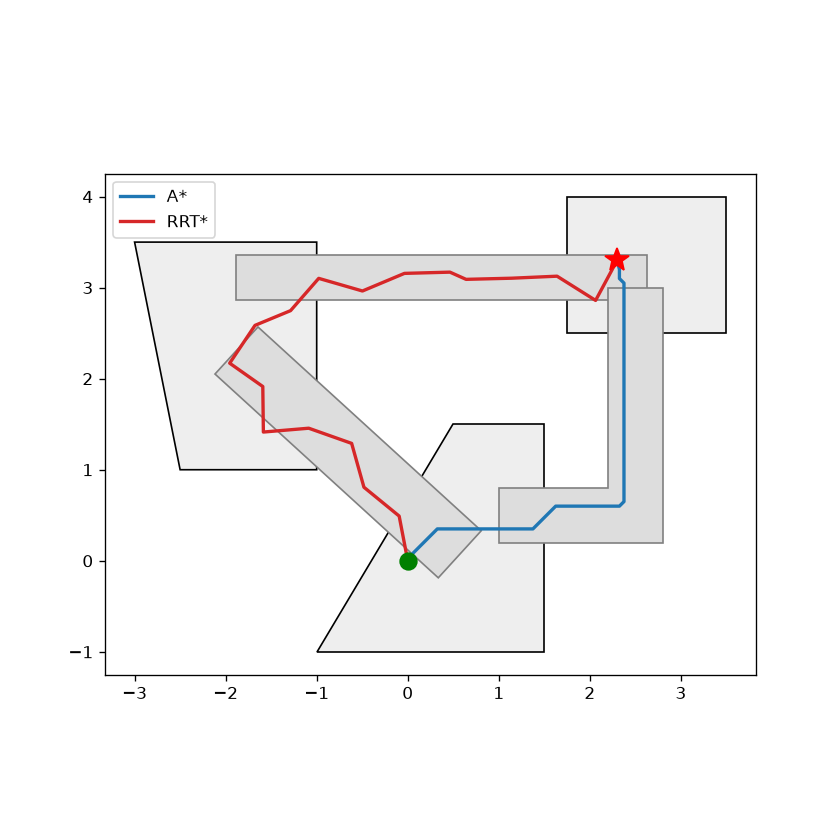
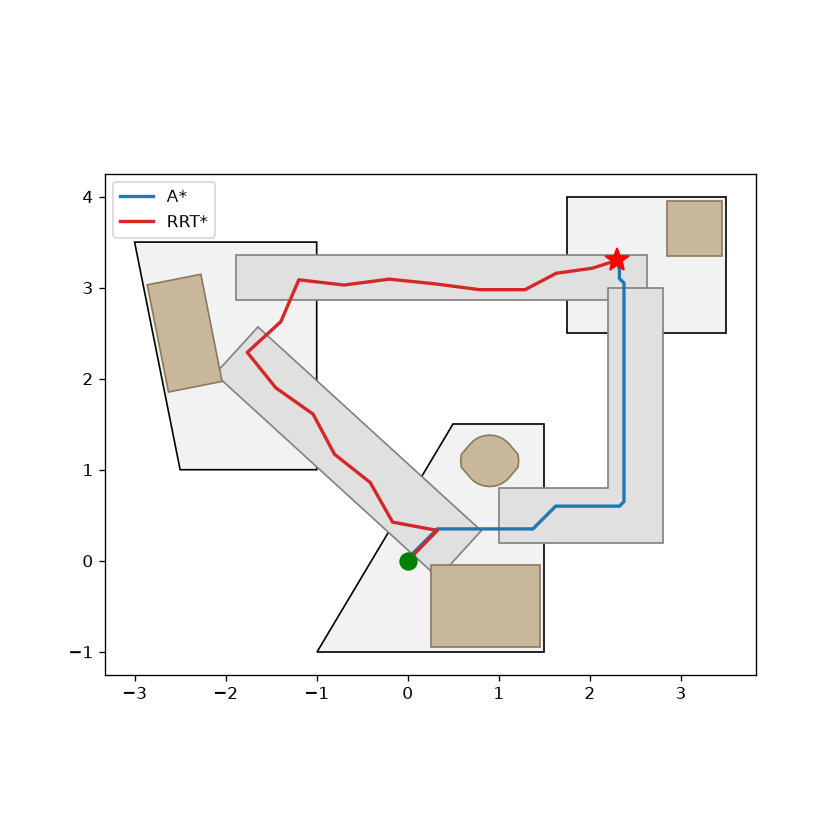
move world and planner setup into navbench/world.py, seed rrt*

diff --git a/animate.py b/animate.py
@@ -1,5 +1,6 @@
 """Two robots, same start and goal: A* vs RRT*. Exports demos/race.gif."""
 
+import argparse
 from pathlib import Path
 
 import matplotlib
@@ -9,43 +10,24 @@ import matplotlib.pyplot as plt
 import numpy as np
 from matplotlib.animation import FuncAnimation, PillowWriter
 
-from pyrobosim.core import WorldYamlLoader
-from pyrobosim.navigation import AStarPlanner, RRTPlanner
-from pyrobosim.utils.general import get_data_folder
-from pyrobosim.utils.pose import Pose
+from navbench.world import GOAL, START, draw_world, load_world, make_planners, plan
 
-START = Pose(x=0.0, y=0.0)
-GOAL = Pose(x=2.3, y=3.3)
 SPEED = 1.0  # m/s, same for both robots
 FPS = 20
 HOLD_S = 1.5  # seconds to keep the final frame
+COLORS = {"A*": "tab:blue", "RRT*": "tab:red"}
 
-world = WorldYamlLoader().from_file(get_data_folder() / "test_world.yaml")
+parser = argparse.ArgumentParser()
+parser.add_argument("--seed", type=int, default=0)
+args = parser.parse_args()
+
+world = load_world()
 robot = world.robots[0]
-
-planners = {
-    "A*": (AStarPlanner(grid_resolution=0.05, grid_inflation_radius=0.15), "tab:blue"),
-    "RRT*": (
-        RRTPlanner(
-            bidirectional=True,
-            rrt_star=True,
-            max_connection_dist=0.5,
-            rewire_radius=1.5,
-            collision_check_step_dist=0.025,
-        ),
-        "tab:red",
-    ),
-}
 
 
 class Run:
     def __init__(self, name, planner, color):
-        import time
-
-        robot.set_path_planner(planner)
-        t0 = time.perf_counter()
-        path = robot.plan_path(START, GOAL)
-        self.plan_time = time.perf_counter() - t0
+        path, self.plan_time = plan(robot, planner, args.seed)
         assert path is not None and path.poses, f"{name}: no path"
         self.name, self.color = name, color
         self.xy = np.array([[p.x, p.y] for p in path.poses])
@@ -67,21 +49,12 @@ class Run:
         return pts[:, 0], pts[:, 1]
 
 
-runs = [Run(n, p, c) for n, (p, c) in planners.items()]
+runs = [Run(n, p, COLORS[n]) for n, p in make_planners().items()]
 for r in runs:
     print(f"{r.name}: length={r.length:.2f} m, plan={r.plan_time:.3f} s, travel={r.travel_time:.1f} s")
 
 fig, ax = plt.subplots(figsize=(6, 6.4))
-for room in world.rooms:
-    x, y = room.polygon.exterior.xy
-    ax.fill(x, y, color="#f2f2f2", ec="black", zorder=1)
-for hall in world.hallways:
-    for g in getattr(hall.polygon, "geoms", [hall.polygon]):
-        x, y = g.exterior.xy
-        ax.fill(x, y, color="#e0e0e0", ec="gray", zorder=1)
-for loc in world.locations:
-    x, y = loc.polygon.exterior.xy
-    ax.fill(x, y, color="#c8b79a", ec="#8a7a5c", zorder=2)
+draw_world(ax, world)
 
 ax.plot(START.x, START.y, "go", ms=10, zorder=3)
 ax.plot(GOAL.x, GOAL.y, "k*", ms=16, zorder=3)

diff --git a/demo.py b/demo.py
@@ -1,6 +1,6 @@
 """Smoke test: load a world, plan with A* and RRT*, save a picture."""
 
-import time
+import argparse
 from pathlib import Path
 
 import matplotlib
@@ -8,54 +8,25 @@ import matplotlib
 matplotlib.use("Agg")
 import matplotlib.pyplot as plt
 
-from pyrobosim.core import WorldYamlLoader
-from pyrobosim.navigation import AStarPlanner, RRTPlanner
-from pyrobosim.utils.general import get_data_folder
-from pyrobosim.utils.pose import Pose
+from navbench.world import GOAL, START, draw_world, load_world, make_planners, plan
 
-START = Pose(x=0.0, y=0.0)
-GOAL = Pose(x=2.3, y=3.3)
+parser = argparse.ArgumentParser()
+parser.add_argument("--seed", type=int, default=0)
+args = parser.parse_args()
 
-world = WorldYamlLoader().from_file(get_data_folder() / "test_world.yaml")
+world = load_world()
 robot = world.robots[0]
 
-planners = {
-    "A*": AStarPlanner(grid_resolution=0.05, grid_inflation_radius=0.15),
-    "RRT*": RRTPlanner(
-        bidirectional=True,
-        rrt_star=True,
-        max_connection_dist=0.5,
-        rewire_radius=1.5,
-        collision_check_step_dist=0.025,
-    ),
-}
-
 fig, ax = plt.subplots(figsize=(7, 7))
-for room in world.rooms:
-    x, y = room.polygon.exterior.xy
-    ax.fill(x, y, color="#eeeeee", ec="black")
-for hall in world.hallways:
-    geoms = getattr(hall.polygon, "geoms", [hall.polygon])
-    for g in geoms:
-        x, y = g.exterior.xy
-        ax.fill(x, y, color="#dddddd", ec="gray")
+draw_world(ax, world)
 
-for (name, planner), color in zip(planners.items(), ["tab:blue", "tab:red"]):
-    robot.set_path_planner(planner)
-    t0 = time.perf_counter()
-    path = robot.plan_path(START, GOAL)
-    dt = time.perf_counter() - t0
+for (name, planner), color in zip(make_planners().items(), ["tab:blue", "tab:red"]):
+    path, dt = plan(robot, planner, args.seed)
     if path is None or not path.poses:
         print(f"{name}: no path")
         continue
     print(f"{name}: length={path.length:.2f} m, time={dt:.3f} s")
-    ax.plot(
-        [p.x for p in path.poses],
-        [p.y for p in path.poses],
-        color=color,
-        lw=2,
-        label=name,
-    )
+    ax.plot([p.x for p in path.poses], [p.y for p in path.poses], color=color, lw=2, label=name)
 
 ax.plot(START.x, START.y, "go", ms=10)
 ax.plot(GOAL.x, GOAL.y, "r*", ms=15)

diff --git a/navbench/world.py b/navbench/world.py
@@ -1,0 +1,53 @@
+import time
+
+import numpy as np
+from pyrobosim.core import WorldYamlLoader
+from pyrobosim.navigation import AStarPlanner, RRTPlanner
+from pyrobosim.utils.general import get_data_folder
+from pyrobosim.utils.pose import Pose
+
+START = Pose(x=0.0, y=0.0)
+GOAL = Pose(x=2.3, y=3.3)
+
+
+def load_world():
+    """Load the PyRoboSim test world (3 rooms, 3 hallways, one robot)."""
+    return WorldYamlLoader().from_file(get_data_folder() / "test_world.yaml")
+
+
+def make_planners():
+    """Return the A* and RRT* planners we compare, keyed by name."""
+    return {
+        "A*": AStarPlanner(grid_resolution=0.05, grid_inflation_radius=0.15),
+        "RRT*": RRTPlanner(
+            bidirectional=True,
+            rrt_star=True,
+            max_connection_dist=0.5,
+            rewire_radius=1.5,
+            collision_check_step_dist=0.025,
+        ),
+    }
+
+
+def plan(robot, planner, seed=0, start=START, goal=GOAL):
+    """Plan a path with the given planner. Returns (path, seconds)."""
+    # RRT samples with the global numpy generator (World.sample_free_robot_pose_uniform)
+    np.random.seed(seed)
+    robot.set_path_planner(planner)
+    t0 = time.perf_counter()
+    path = robot.plan_path(start, goal)
+    return path, time.perf_counter() - t0
+
+
+def draw_world(ax, world):
+    """Draw rooms, hallways and furniture on a matplotlib axis."""
+    for room in world.rooms:
+        x, y = room.polygon.exterior.xy
+        ax.fill(x, y, color="#f2f2f2", ec="black", zorder=1)
+    for hall in world.hallways:
+        for g in getattr(hall.polygon, "geoms", [hall.polygon]):
+            x, y = g.exterior.xy
+            ax.fill(x, y, color="#e0e0e0", ec="gray", zorder=1)
+    for loc in world.locations:
+        x, y = loc.polygon.exterior.xy
+        ax.fill(x, y, color="#c8b79a", ec="#8a7a5c", zorder=2)
